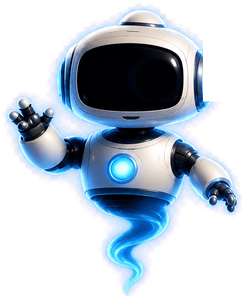
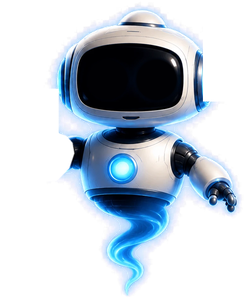
Make the robot wave
The raised forearm is cut into its own layer (public/robot-arm.png) and
rotates around the elbow: a short wave every few seconds, a continuous
wave on hover. Turned off for visitors who prefer reduced motion, and
not used with a custom data-robot image.

Claude-Session: https://claude.ai/code/session_017bZYRGAL3PU5DkobjS3wpL

Changed region(s): [[0.0, 0.3, 0.3143, 0.6]]

diff --git a/public/widget.js b/public/widget.js
@@ -85,6 +85,8 @@
   var TEASER_KEY = STORAGE_KEY + ":teaser";
   var ROBOT = cfg.launcher !== "pill";
   var ROBOT_SRC = cfg.robot || SERVER + "/robot.png";
+  // The default robot's waving forearm is a separate image layer, rotated around its elbow.
+  var ROBOT_ARM = cfg.robot ? "" : SERVER + "/robot-arm.png";
   var BUBBLE_SUB = cfg.teaser && cfg.teaser !== "off" ? cfg.teaser : FIRST ? "about " + FIRST + "'s experience & skills" : "";
   var REDUCED_MOTION = window.matchMedia && matchMedia("(prefers-reduced-motion: reduce)").matches;
 
@@ -180,6 +182,10 @@
     ".mascot .body{position:absolute;inset:0;animation:float 3.6s ease-in-out infinite;transform-origin:50% 60%}" +
     ".mascot .fig{position:absolute;inset:0;transition:transform .35s cubic-bezier(.3,1.6,.5,1);filter:drop-shadow(0 0 10px rgba(56,189,248,.45)) drop-shadow(0 10px 14px rgba(15,23,42,.25));animation:glow 3.6s ease-in-out infinite}" +
     ".mascot img{width:100%;height:100%;display:block;pointer-events:none;user-select:none;-webkit-user-drag:none}" +
+    ".mascot img.arm{position:absolute;inset:0;transform-origin:28.08% 50%;animation:wave 4.5s ease-in-out infinite}" +
+    ".mascot:hover img.arm{animation:wave-fast 1s ease-in-out infinite}" +
+    "@keyframes wave{0%,46%,100%{transform:rotate(0)}8%{transform:rotate(16deg)}16%{transform:rotate(2deg)}24%{transform:rotate(16deg)}32%{transform:rotate(2deg)}40%{transform:rotate(12deg)}}" +
+    "@keyframes wave-fast{0%,100%{transform:rotate(0)}50%{transform:rotate(16deg)}}" +
     ".mascot:hover .fig{transform:scale(1.08) rotate(-6deg)}" +
     ".mascot.hop .fig{animation:hop .6s cubic-bezier(.3,1.5,.5,1)}" +
     ".eye{position:absolute;top:26.5%;width:8%;aspect-ratio:1;border-radius:50%;margin:-4% 0 0 -4%;" +
@@ -348,7 +354,7 @@
     "</section>" +
     (ROBOT
       ? '<button class="mascot" type="button" aria-label="' + esc(LABEL) + '"><div class="body"><div class="fig">' +
-        '<img alt="" src="' + esc(ROBOT_SRC) + '"><span class="eye l"></span><span class="eye r"></span></div></div></button>' +
+        '<img alt="" src="' + esc(ROBOT_SRC) + '">' + (ROBOT_ARM ? '<img alt="" class="arm" src="' + esc(ROBOT_ARM) + '">' : "") + '<span class="eye l"></span><span class="eye r"></span></div></div></button>' +
         '<div class="bubble" aria-hidden="true"><b>Ask me anything!</b>' + (BUBBLE_SUB ? "<span>" + esc(BUBBLE_SUB) + "</span>" : "") + "</div>"
       : "") +
     (TEASER && !ROBOT

diff --git a/server.js b/server.js
@@ -231,10 +231,12 @@ app.get("/widget.js", (req, res) => {
   res.set("Cache-Control", "public, max-age=300");
   res.sendFile(path.join(here, "public", "widget.js"));
 });
-app.get("/robot.png", (req, res) => {
-  res.set("Cache-Control", "public, max-age=86400");
-  res.sendFile(path.join(here, "public", "robot.png"));
-});
+for (const img of ["robot.png", "robot-arm.png"]) {
+  app.get("/" + img, (req, res) => {
+    res.set("Cache-Control", "public, max-age=3600");
+    res.sendFile(path.join(here, "public", img));
+  });
+}
 app.get("/", (req, res) => {
   if (PORTFOLIO) return res.sendFile(path.join(here, "public", "portfolio.html"));
   res.type("html").send(`<!doctype html><html lang="en"><head><meta charset="utf-8">

diff --git a/README.md b/README.md
@@ -31,7 +31,7 @@ attributes on the tag:
 | `data-avatar` | URL of a headshot to show instead of initials | initials |
 | `data-greeting` | First message the bot shows | built from `data-name` |
 | `data-suggestions` | Starter questions, separated by `\|` | tech stack, experience, open to roles, contact |
-| `data-launcher` | `robot` for the animated robot mascot (eyes follow the cursor, blinks, hops when clicked), or `pill` for a plain gradient button | `robot` |
+| `data-launcher` | `robot` for the animated robot mascot (waves, eyes follow the cursor, blinks, hops when clicked), or `pill` for a plain gradient button | `robot` |
 | `data-robot` | URL of a different mascot image (transparent PNG) | `robot.png` on the bot server |
 | `data-label` | Accessible name of the launcher (and its text in `pill` mode) | `Ask about <first name>` |
 | `data-teaser` | Second line of the speech bubble that pops up after a few seconds (once per visit), or `off` | a short "Hiring? Ask me..." line |
